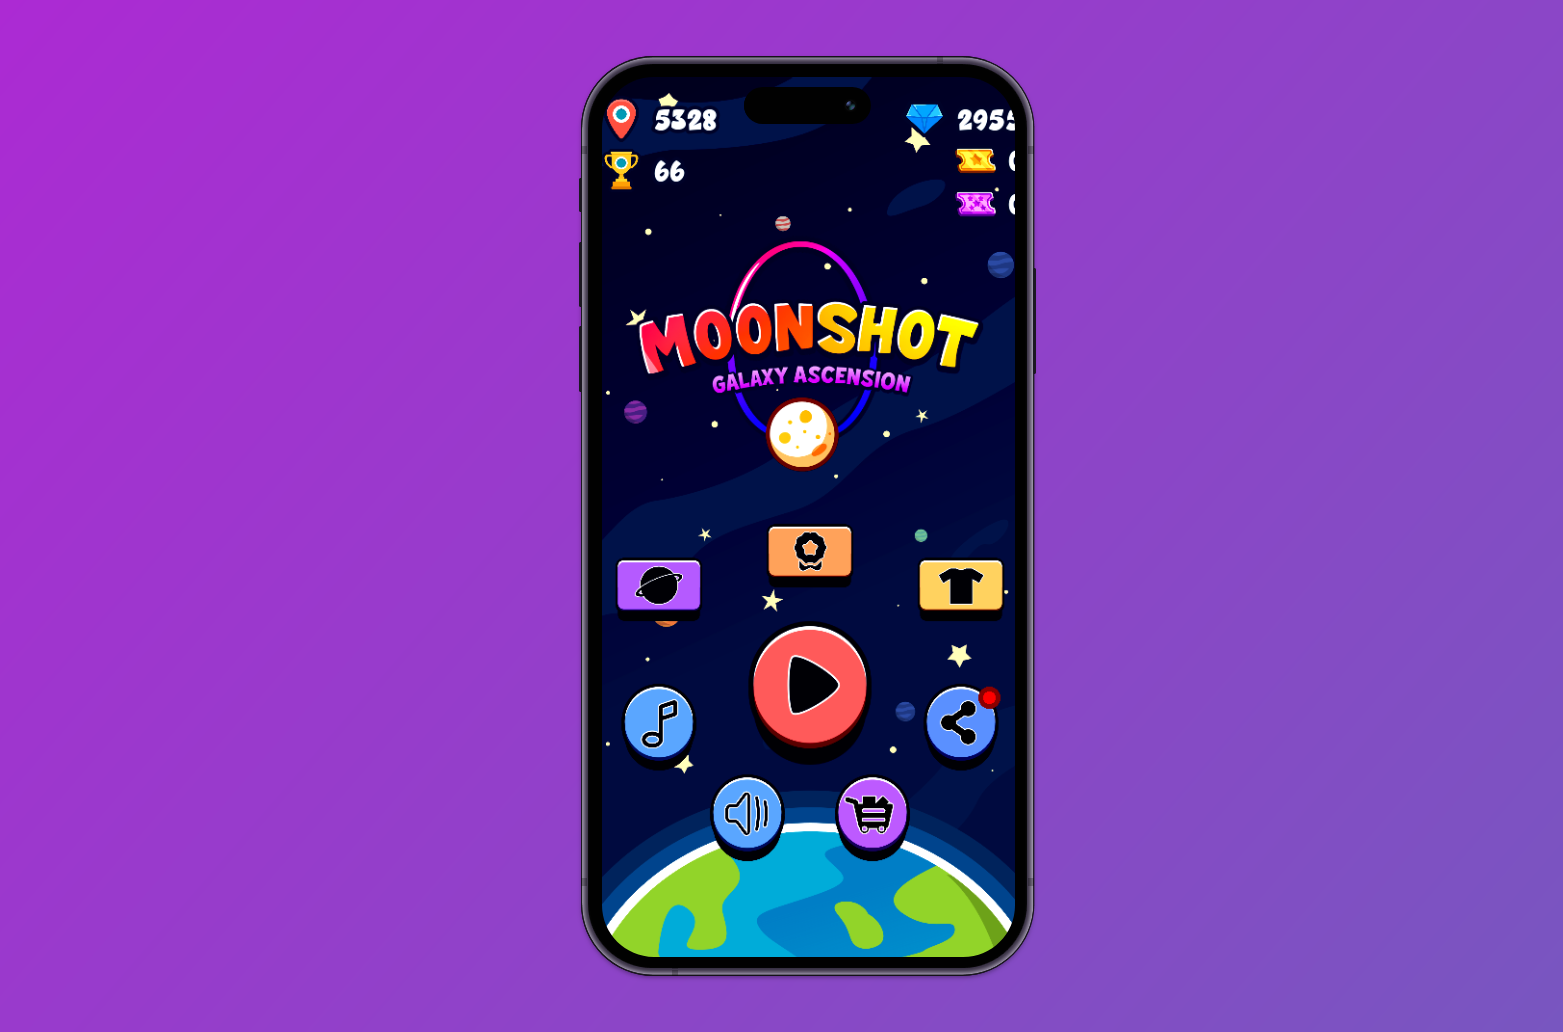
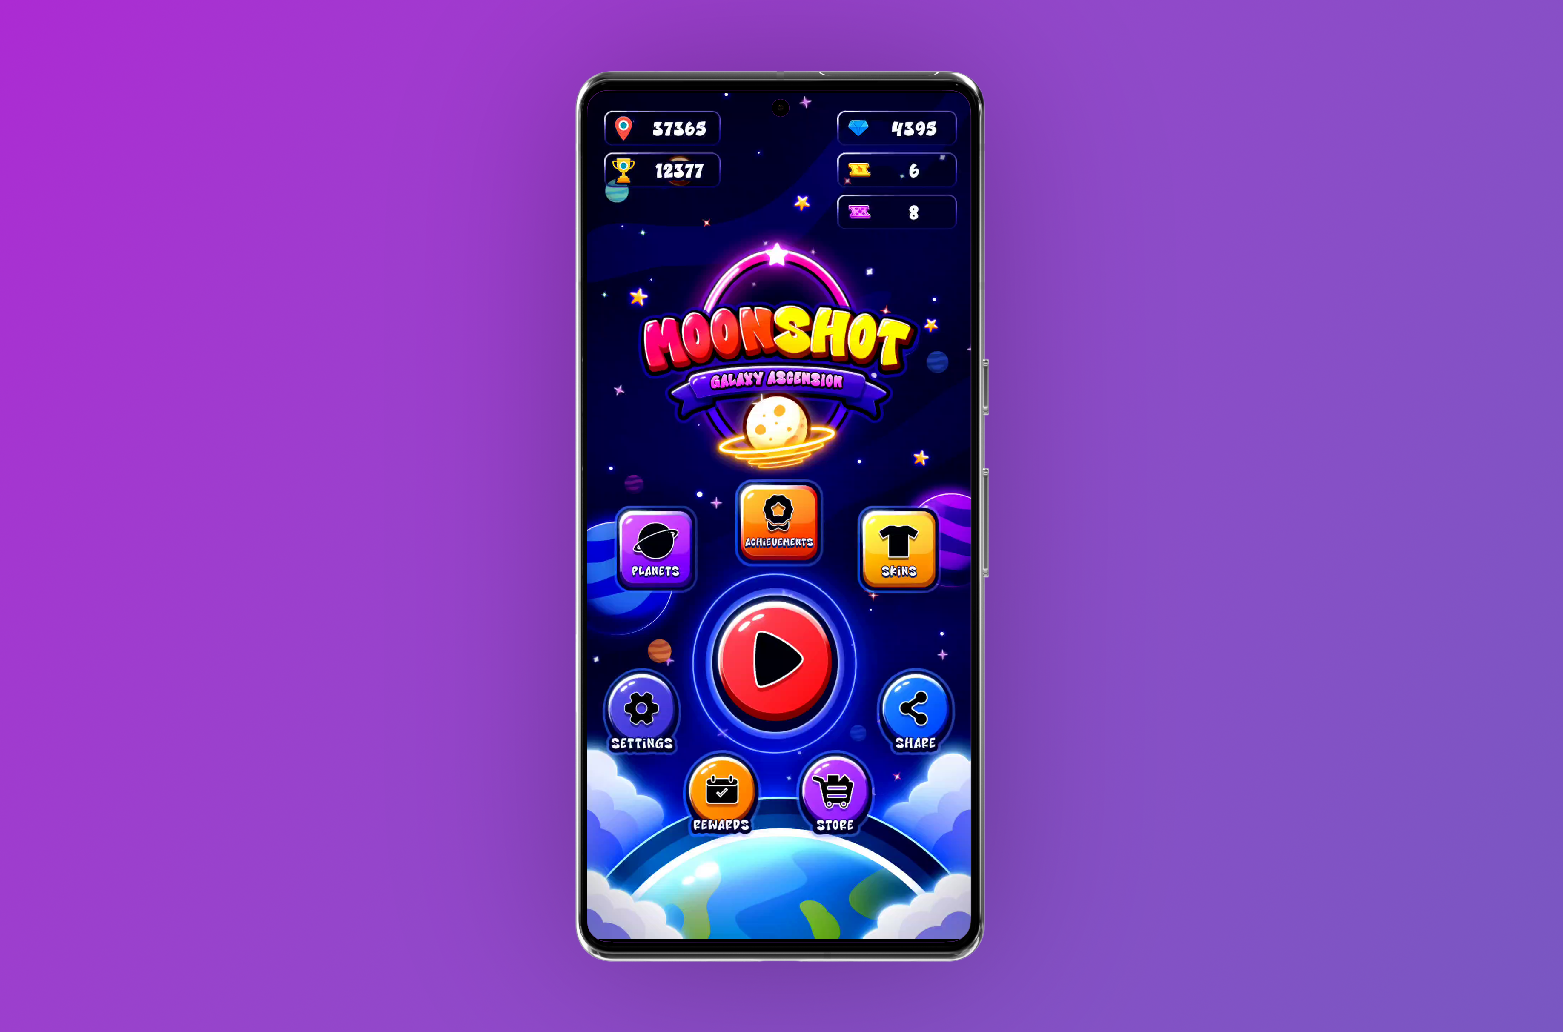
Updated with the latest work on MoonshotGA

Changed region(s): [[0.3378, 0.031, 0.6756, 0.9612]]

diff --git a/src/components/ProjectContent/MoonshotContent.jsx b/src/components/ProjectContent/MoonshotContent.jsx
@@ -39,12 +39,12 @@ export default function MoonshotContent() {
                 <Carousel
                     slideClass="embla__slide_mga_gameplay"
                     images={
-                        ["/moonshotga/img1.jpg", 
-                            "/moonshotga/img2.jpg", 
-                            "/moonshotga/img3.jpg", 
-                            "/moonshotga/img4.jpg",
-                            "/moonshotga/img5.jpg",
-                            "/moonshotga/img6.jpg"
+                        ["/moonshotga/img1.png", 
+                          "/moonshotga/img2.png", 
+                          "/moonshotga/img3.png", 
+                          "/moonshotga/img4.png",
+                          "/moonshotga/img5.png",
+                          "/moonshotga/img6.png"
                         ]
                     }
                 />
@@ -81,7 +81,8 @@ export default function MoonshotContent() {
                         ["/moonshotga/phase1-review.png", 
                             "/moonshotga/phase2-review.png", 
                             "/moonshotga/phase3-review.png",
-                            "/moonshotga/phase4-review.png"
+                            "/moonshotga/phase4-review.png",
+                            "/moonshotga/phase5-review.png"
                         ]
                     }
                 />
